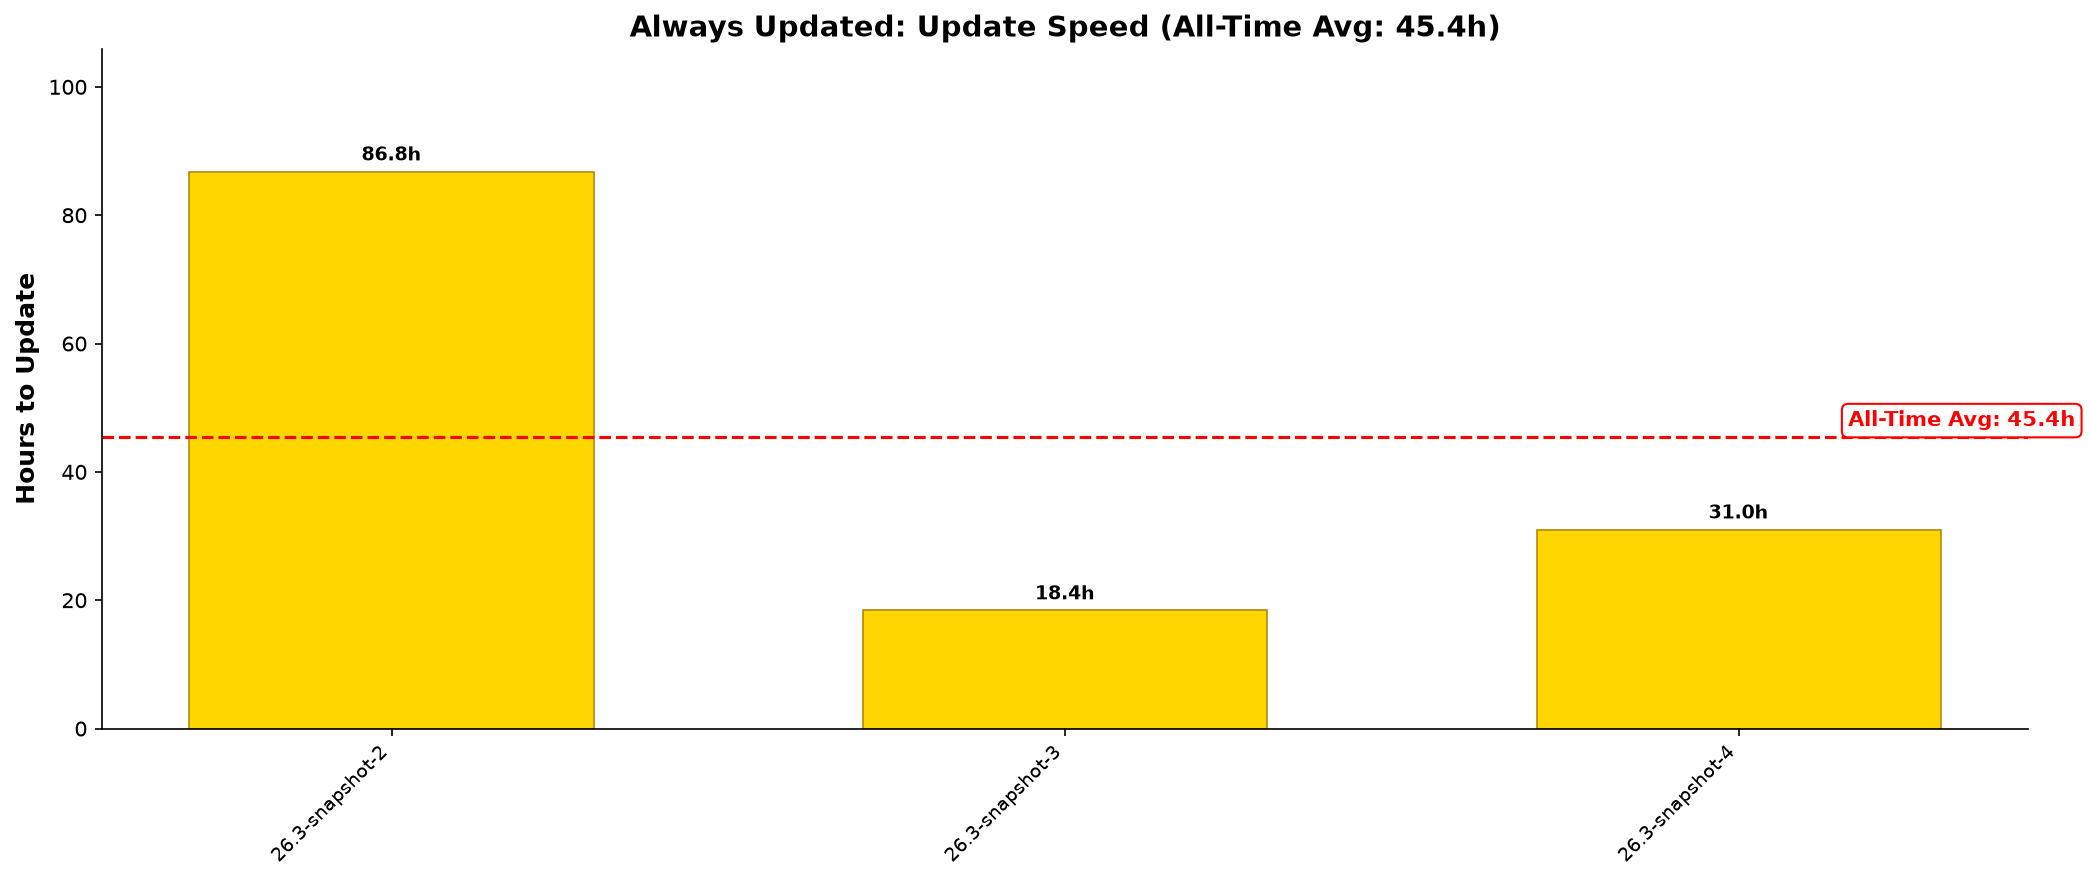
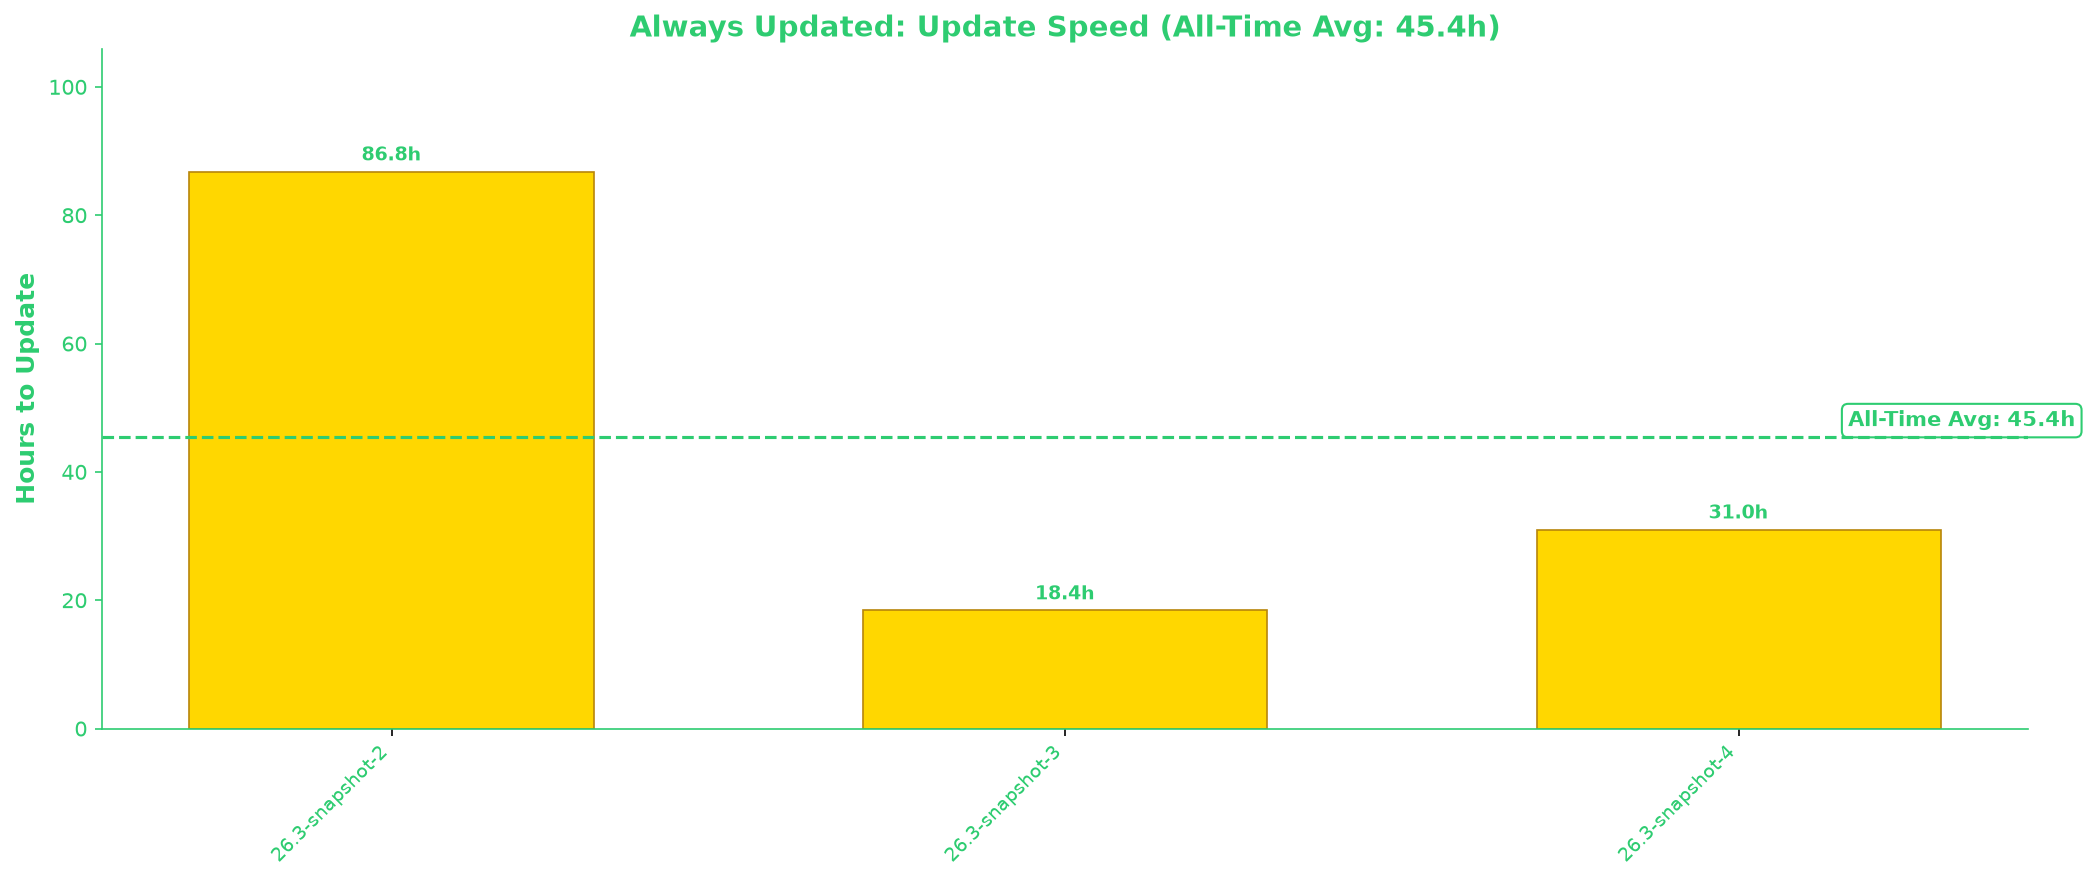
use colors that will work with dark and light mode

diff --git a/generate_graph.py b/generate_graph.py
@@ -81,85 +81,90 @@ def get_mc_release_time(version_info):
     time_str = resp.json()["time"]
     return datetime.fromisoformat(time_str.replace("Z", "+00:00"))
 
-
 def main():
     print("Fetching Modrinth versions...")
     earliest_times = get_modrinth_versions()
     print(f"  Found {len(earliest_times)} MC versions on Modrinth.")
-
+ 
     print("Fetching Mojang version manifest...")
     mc_versions = get_mojang_manifest()
-
+ 
     data_points = []
     for mc_version in sorted(earliest_times):
         if mc_version in DISALLOWED_VERSIONS:
             print(f"  Skipping '{mc_version}': in disallow list.")
             continue
-
+ 
         if mc_version not in mc_versions:
             print(f"  Skipping '{mc_version}': not found in Mojang manifest.")
             continue
-
+ 
         mc_time = get_mc_release_time(mc_versions[mc_version])
         modpack_time = earliest_times[mc_version]
         delta_hours = (modpack_time - mc_time).total_seconds() / 3600
-
+ 
         if delta_hours < 0:
             print(f"  Skipping '{mc_version}': negative delta ({delta_hours:.1f}h).")
             continue
-
+ 
         data_points.append({"label": mc_version, "hours": round(delta_hours, 1)})
         print(f"  {mc_version}: {delta_hours:.1f}h")
-
+ 
     if not data_points:
         print("No valid data points found. Exiting without generating graph.")
         sys.exit(0)
-
+ 
     labels = [d["label"] for d in data_points]
     hours = [d["hours"] for d in data_points]
     avg = sum(hours) / len(hours)
     max_h = max(hours)
-
+ 
+    # Green reads reasonably well on both light and dark backgrounds.
+    TEXT_COLOR = "#2ECC71"
+ 
     fig_width = max(14, len(labels) * 1.1)
     fig, ax = plt.subplots(figsize=(fig_width, 6))
-    fig.patch.set_facecolor("white")
-    ax.set_facecolor("white")
-
+    fig.patch.set_alpha(0.0)
+    ax.patch.set_alpha(0.0)
+ 
     x = list(range(len(labels)))
     bars = ax.bar(x, hours, color="#FFD700", edgecolor="#B8860B", linewidth=0.8, width=0.6)
-
+ 
     for bar, h in zip(bars, hours):
         ax.text(
             bar.get_x() + bar.get_width() / 2,
             bar.get_height() + max_h * 0.012,
             f"{h}h",
-            ha="center", va="bottom", fontsize=9, fontweight="bold",
+            ha="center", va="bottom", fontsize=9, fontweight="bold", color=TEXT_COLOR,
         )
-
-    ax.axhline(y=avg, color="red", linestyle="--", linewidth=1.5)
+ 
+    ax.axhline(y=avg, color=TEXT_COLOR, linestyle="--", linewidth=1.5)
     ax.text(
         len(labels) - 0.5,
         avg + max_h * 0.02,
         f"All-Time Avg: {avg:.1f}h",
-        color="red", fontsize=10, fontweight="bold", ha="right",
-        bbox=dict(facecolor="white", edgecolor="red", boxstyle="round,pad=0.3"),
+        color=TEXT_COLOR, fontsize=10, fontweight="bold", ha="right",
+        bbox=dict(facecolor="none", edgecolor=TEXT_COLOR, boxstyle="round,pad=0.3"),
     )
-
+ 
     ax.set_xticks(x)
-    ax.set_xticklabels(labels, rotation=45, ha="right", fontsize=9)
-    ax.set_ylabel("Hours to Update", fontsize=12, fontweight="bold")
+    ax.set_xticklabels(labels, rotation=45, ha="right", fontsize=9, color=TEXT_COLOR)
+    ax.tick_params(axis="y", colors=TEXT_COLOR)
+    ax.set_ylabel("Hours to Update", fontsize=12, fontweight="bold", color=TEXT_COLOR)
     ax.set_ylim(0, max_h * 1.22)
     ax.set_title(
         f"Always Updated: Update Speed (All-Time Avg: {avg:.1f}h)",
-        fontsize=14, fontweight="bold",
+        fontsize=14, fontweight="bold", color=TEXT_COLOR,
     )
     ax.spines["top"].set_visible(False)
     ax.spines["right"].set_visible(False)
-
+    ax.spines["left"].set_color(TEXT_COLOR)
+    ax.spines["bottom"].set_color(TEXT_COLOR)
+ 
     plt.tight_layout()
-    plt.savefig("update_graph.png", dpi=150, bbox_inches="tight")
+    plt.savefig("update_graph.png", dpi=150, bbox_inches="tight", transparent=True)
     print(f"Graph saved: update_graph.png ({len(data_points)} entries, avg {avg:.1f}h)")
-
-
+ 
+ 
 if __name__ == "__main__":
     main()